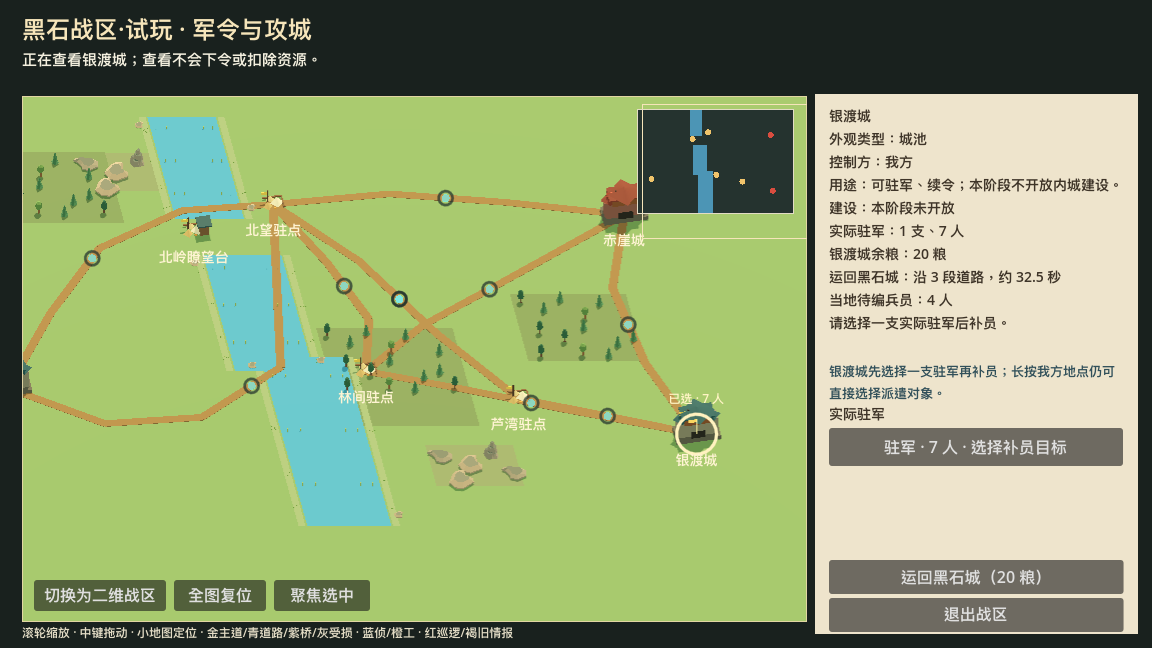
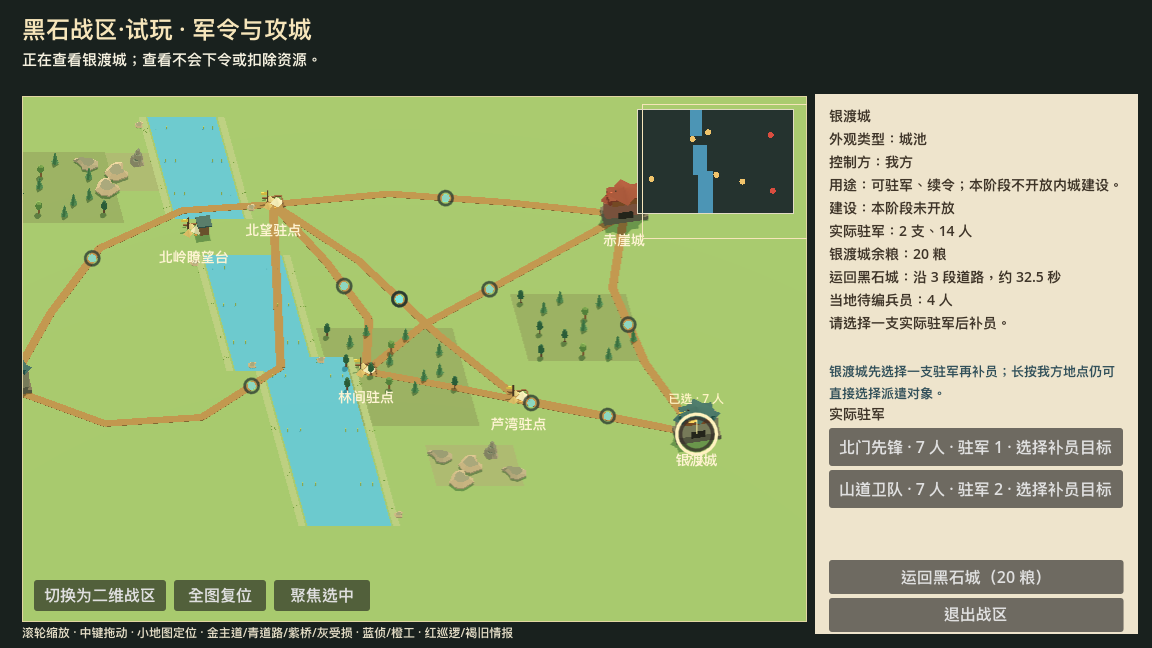
Close stationed reinforcement guards and feedback

Changed region(s): [[0.7188, 0.679, 1.0, 0.8025], [0.5938, 0.6481, 0.625, 0.7099], [0.8125, 0.3395, 0.8438, 0.3704]]

diff --git a/CURRENT_STATE.md b/CURRENT_STATE.md
@@ -4,11 +4,11 @@
 
 银渡城补给 R0 已标记为**功能阶段结项**：已占领银渡城的一次性 20 粮仍按真实道路运输、到达黑石城后才入库；此前旧维修项目缺少 `repair_initial_durability` 时只能恢复其已记录耐久的兼容性待办继续保留，未在本阶段扩大维修规则。
 
-本阶段新增一个独立、有限的试玩配置：银渡城在新开局中有 `initial_stationed_reinforcements = 4` 名待编步兵。它既不是敌方守军、黑石驻军或训练队列，也不会随刷新、反复占领或读档重新生成。`FieldTacticsState` 保存地点剩余兵源；`ArmyRegistry` 继续独占编队人数、军队汇总、`army_id` 与军令历史；`ConstructionController` 在提交时重新核对银渡控制权、目标军队是否真实 `STATIONED`、容量和地点库存，并把扣地点兵源、按稳定 `formation_id` 顺序补编、V5 检查点发布放在同一回滚边界内。补员不创建军令、不转移编队、不扣粮。
+本阶段新增一个独立、有限的试玩配置：银渡城在新开局中有 `initial_stationed_reinforcements = 4` 名待编步兵。它既不是敌方守军、黑石驻军或训练队列，也不会随刷新、反复占领或读档重新生成。`FieldTacticsState` 保存地点剩余兵源；`ArmyRegistry` 继续独占编队人数、军队汇总、`army_id` 与军令历史；`ConstructionController` 在预览和提交时重新核对银渡控制权、目标军队是否真实 `STATIONED`、目标军队归属为我方、容量和地点库存，并把扣地点兵源、按稳定 `formation_id` 顺序补编、V5 检查点发布放在同一回滚边界内。补员不创建军令、不转移编队、不扣粮。
 
-银渡地点详情现在要求玩家先明确选择一支实际驻军，再显示当地剩余兵源、该军队每个编队的当前/上限人数、预览分配及“补充 X 人”按钮；在途、交战/非驻扎、敌方控制、满编、无兵源和错误地点均由同一权威预检给出原因。实际 GUI 地图点击用于打开银渡详情；Godot `SceneTree` 无法把合成系统鼠标交给原生侧栏 `Button`，因此驻军选择与补员动作在证据中准确标为“可见、未禁用的已连接按钮信号”，不是 macOS 物理鼠标证据。
+银渡地点详情现在要求玩家先明确选择一支实际驻军，再显示当地剩余兵源、该军队每个编队的当前/上限人数、预览分配及“补充 X 人”按钮。列表使用编队名称、人数和稳定的驻军序号区分同人数目标，不向玩家展示内部 `army_id`；多编队则以简短名称摘要加编队明细表达。成功后会持续显示“已补充 X 人、现有 Y/Z、当地兵源剩余 N”，直到玩家切换对象或开始下一次操作；耗尽库存是正常状态，显示“当地兵源已用尽”。在途、交战/非驻扎、非我方目标、敌方控制、满编、无兵源和错误地点均由同一权威预检给出原因。实际 GUI 地图点击用于打开银渡详情；Godot `SceneTree` 无法把合成系统鼠标交给原生侧栏 `Button`，因此驻军选择与补员动作在证据中准确标为“可见、未禁用的已连接按钮信号”，不是 macOS 物理鼠标证据。
 
-定向验证已经覆盖：真实 Controller 出征、占领银渡城、补 4 人、重复补员零写入、从银渡续令；稳定多编队分配；错误军队/地点、保存故障全快照回滚；旧 Field 快照不补发兵源；以及独立 A/B/C Godot 进程的补员后、续令后和在途恢复。图形 GUI 证据与日志位于 `docs/milestones/txwzs-field-tactics-r2/evidence/20260911-stationed-reinforcement-r0/`。现有候选窗口与隔离存档未被关闭或覆盖；玩家验收继续 **OPEN**。
+定向验证已经覆盖：真实 Controller 出征、占领银渡城、补 4 人、重复补员零写入、从银渡续令；稳定多编队分配；我方城池中的非我方驻军预览/提交双重拒绝且零副作用；错误军队/地点、保存故障全快照回滚；旧 Field 快照不补发兵源；以及独立 A/B/C Godot 进程的补员后、续令后和在途恢复。图形 GUI 证据额外覆盖两支同为 7 人的驻军选择、仅目标军队增长、未遮挡补员按钮及跨刷新保留的成功反馈。证据与日志位于 `docs/milestones/txwzs-field-tactics-r2/evidence/20260911-stationed-reinforcement-r0/`。现有候选窗口与隔离存档未被关闭或覆盖；玩家验收继续 **OPEN**。
 
 ## 银渡城有限粮草与运回入库 R0（2026-09-11）
 

diff --git a/docs/milestones/txwzs-field-tactics-r2/evidence/20260911-stationed-reinforcement-r0/VERIFICATION.md b/docs/milestones/txwzs-field-tactics-r2/evidence/20260911-stationed-reinforcement-r0/VERIFICATION.md
@@ -19,9 +19,9 @@ All commands use Godot `4.5.1.stable.official.f62fdbde1` at:
 
 | Command | Result | Evidence scope |
 | --- | --- | --- |
-| `--headless --path . --script res://tests/run_field_stationed_reinforcement_r0_smoke.gd` | PASS, 5 assertions | Normal Controller occupation, replenish, duplicate rejection, reissue, stable multi-formation allocation, rollback, legacy/strict Field restore. |
+| `--headless --path . --script res://tests/run_field_stationed_reinforcement_r0_smoke.gd` | PASS, 5 assertions | Normal Controller occupation, replenish, duplicate rejection, reissue, stable multi-formation allocation, player-owner enforcement for a non-player army inside player Silverford, rollback, legacy/strict Field restore. |
 | `--headless --path . --script res://tests/run_field_stationed_reinforcement_r0_persistence_smoke.gd` | PASS | Independent A/B/C processes: replenished stationary army, restored reissue, then restored moving order; stock remains zero and membership remains eleven. |
-| `--path . --script res://tests/run_field_stationed_reinforcement_r0_graphical_smoke.gd -- --txwzs-v5-save-dir=<isolated-dir> --txwzs-field-reinforcement-evidence-dir=<this-directory>` | PASS, 3 assertions | Engine GUI map click, visible enabled detail controls, selected roster preview, connected action signal and completed authoritative state. |
+| `--path . --script res://tests/run_field_stationed_reinforcement_r0_graphical_smoke.gd -- --txwzs-v5-save-dir=<isolated-dir> --txwzs-field-reinforcement-evidence-dir=<this-directory>` | PASS, 3 assertions | Engine GUI map click, two equal-strength actual garrisons with visible distinct target rows, non-overlapping enabled action control, connected action signal, only-target allocation and feedback that survives ordinary refresh. |
 | `--headless --path . --script res://tests/run_field_supply_r0_smoke.gd` | PASS, 11 assertions | Supply regression including correctly shaped legacy Field fixture. |
 | `--headless --path . --script res://tests/run_field_supply_r0_persistence_smoke.gd` | PASS | Existing A/B/C/D independent-process supply recovery regression. |
 | `--headless --path . --script res://tests/run_macro_march_r0_smoke.gd` | PASS, 35 assertions | Macro March regression. |
@@ -37,6 +37,13 @@ mouse-input proof. Each screenshot is named by its actual state:
 - `field-reinforcement-01-location-detail-engine-gui.png`
 - `field-reinforcement-02-selected-army-engine-gui.png`
 - `field-reinforcement-03-completed-engine-gui.png`
+- `field-reinforcement-04-persistent-feedback-engine-gui.png`
+
+The captures are isolated graphical GUI-event evidence. The map press/release
+opens the location detail; native side-panel button selection and commit are
+then exercised through their visible, enabled connected action signals because
+`SceneTree` cannot inject a macOS click into native controls. This is not
+normal system-mouse proof.
 
 ## Boundaries retained
 

diff --git a/CHANGELOG.md b/CHANGELOG.md
@@ -2,6 +2,19 @@
 
 ## 2026-09-11
 
+- Closed the stationed-reinforcement R0 guard and feedback follow-up. The
+  authoritative preview used by commit now rejects a non-player army even when
+  it is stationary inside player-controlled Silverford, with no Field,
+  ArmyRegistry, order, or resource side effect. The location roster now uses
+  formation name, actual count, and a stable garrison ordinal rather than a
+  player-visible army ID; successful reinforcement copy survives ordinary UI
+  refresh until the target or active operation changes, while an empty pool is
+  presented as the normal `当地兵源已用尽` state. The focused smoke and
+  graphical GUI contract cover the ownership rejection, equal-strength target
+  selection, one-target allocation, non-overlapping action control, and
+  persistent feedback. Evidence:
+  `docs/milestones/txwzs-field-tactics-r2/evidence/20260911-stationed-reinforcement-r0/`.
+
 - Added stationed reinforcement R0 for occupied Silverford. A fresh playable
   theatre authors four finite local infantry; FieldTacticsState persists the
   remaining point pool, ArmyRegistry owns stable formation-ID ordered member
